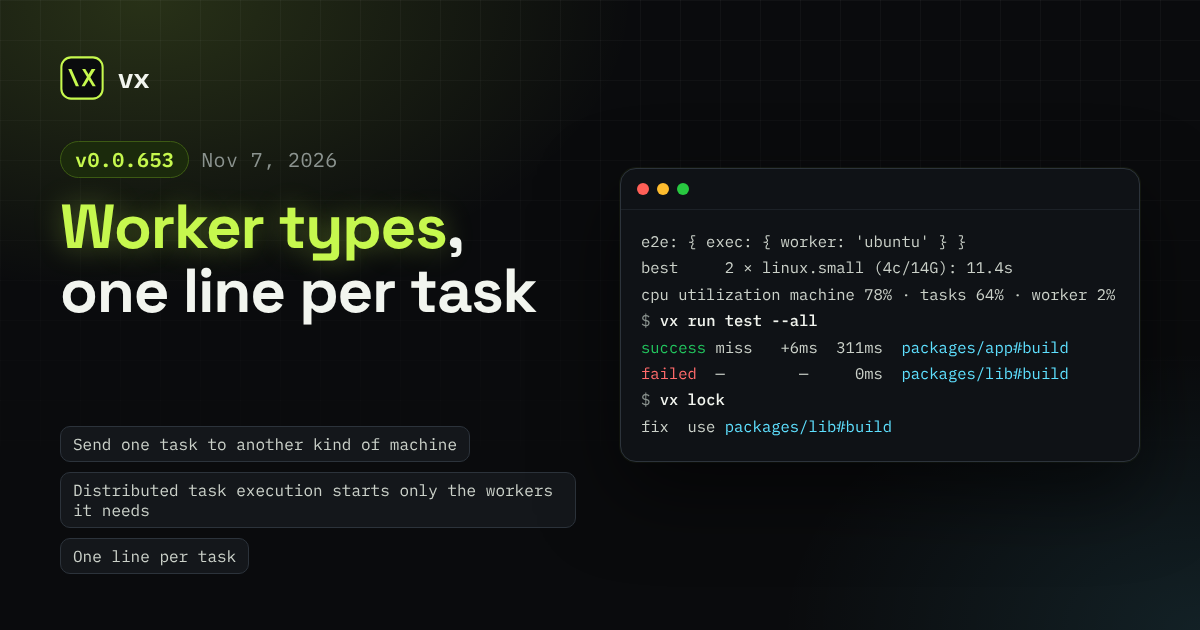
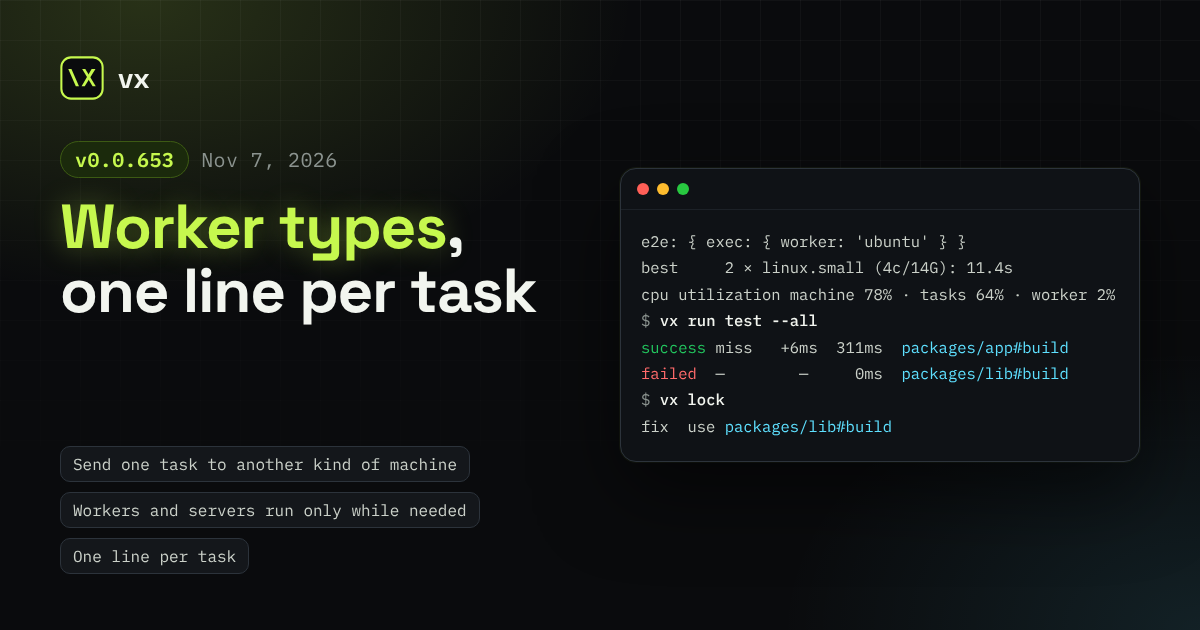
docs(vx-docs): add servers that stop when unneeded to v0.0.653
Claude-Session: https://claude.ai/code/session_01W6xuYXfZETdJJJQqYuVR6J

Changed region(s): [[0.0617, 0.6937, 0.4625, 0.8143]]

diff --git a/private/vx-docs/src/content/docs/releases/vx-0-0-653.md b/private/vx-docs/src/content/docs/releases/vx-0-0-653.md
@@ -8,12 +8,12 @@ tags:
 cover:
   image: ../../../assets/blog/vx-0-0-653.png
   alt: 'vx 0.0.653: Worker types, one line per task'
-excerpt: 'Distributed task execution sends a task to the machine type it names and starts only the workers it needs. Every task is one line; config refusals point at their line.'
+excerpt: 'Distributed task execution sends a task to the machine type it names. Workers and servers run only while needed. Every task is one line; config refusals point at their line.'
 ---
 
 Distributed task execution can send one task to another kind of
-machine, and starts only the workers it needs. The task list is one
-line per task.
+machine. Workers and servers run only while a task needs them. The
+task list is one line per task.
 
 A failed cache restore fails its task. A config mistake is shown at
 its line.
@@ -23,7 +23,7 @@ This release is breaking. Read the [breaking changes](#breaking-changes) first.
 **In this release**
 
 - [Send one task to another kind of machine](#send-one-task-to-another-kind-of-machine)
-- [Distributed task execution starts only the workers it needs](#distributed-task-execution-starts-only-the-workers-it-needs)
+- [Workers and servers run only while needed](#workers-and-servers-run-only-while-needed)
 - [One line per task](#one-line-per-task)
 - [A failed restore is a failed task](#a-failed-restore-is-a-failed-task)
 - [Config refusals point at their line](#config-refusals-point-at-their-line)
@@ -69,7 +69,7 @@ refuses the run before any worker starts. On your own machine
 
 See [Distributed task execution](../../docs/distributed-task-execution/).
 
-## Distributed task execution starts only the workers it needs
+## Workers and servers run only while needed
 
 A run could start four Macs for work two would finish long before the
 Linux work ended, and a short arm task waited behind x64 work while the
@@ -103,7 +103,26 @@ $ VX_DTE_RUN=$(uuidgen) vx run test --all
   [2m        [0m  total           cpu utilization machine 35% · tasks 33% · worker 1%
 ```
 
-See [Distributed task execution](../../docs/distributed-task-execution/).
+A dev server a test depends on ran until the whole run ended, holding
+its machine's cores while unrelated tasks ran.
+
+Now a server gets `SIGTERM` as soon as every task that uses it has
+finished, while the rest of the run goes on. On a worker it stops the
+same way, and starts again if a later task there needs it.
+
+```mermaid
+flowchart LR
+  serve[serve ready] --> e2e[e2e runs]
+  e2e --> stop[serve stopped]
+  lint[lint keeps running] ~~~ stop
+```
+
+A worker also learns what a server costs: its idle CPU, booked once per
+worker, and the CPU each dependant adds while it runs. Workers are no
+longer overfilled by servers no task was charged for.
+
+See [Distributed task execution](../../docs/distributed-task-execution/)
+and [Dev servers as graph nodes](../../blog/dev-servers-in-the-graph/).
 
 ## One line per task
 
